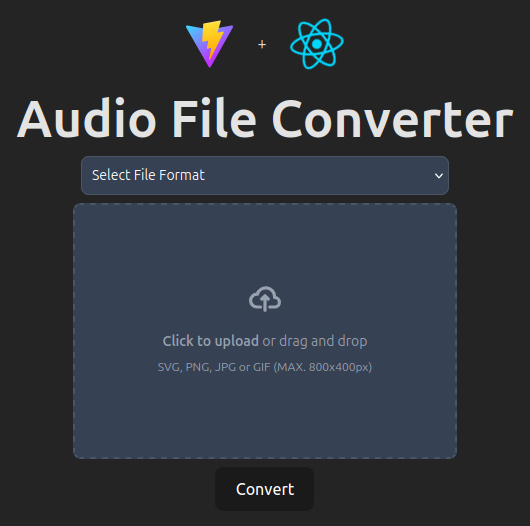
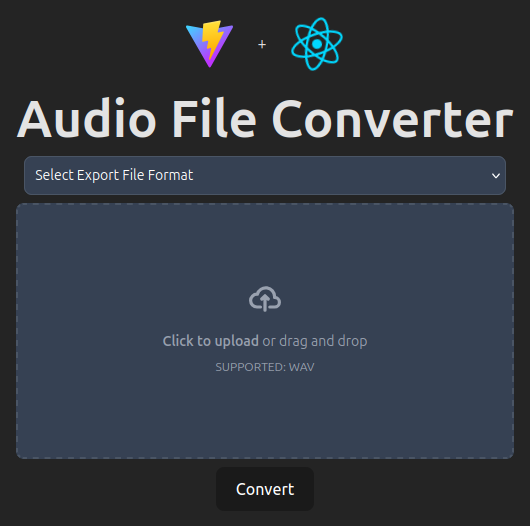
wui_frontend_reactjs: Implemented

diff --git a/src/wui/frontend/freactjs/src/App.tsx b/src/wui/frontend/freactjs/src/App.tsx
@@ -1,8 +1,77 @@
+import { useState } from 'react'
 import reactLogo from './assets/react.svg'
 import viteLogo from '/vite.svg'
 import './App.css'
 
 function App() {
+  // TODO (ames0k0): load from backend
+  const SUPPORTED_FILE_EXTENSIONS: string[] = [
+    "WAV",
+  ];
+  const SUPPORTED_EXPORT_FILE_FORMATS: string[] = [
+    "mp3",
+  ];
+
+  const [file, setFile] = useState<File | null>(null);
+  const [eff, setEFF] = useState<string | null>(null);
+  const [status, setStatus] = useState("initial");
+
+  const handleEFFChange = (e: React.ChangeEvent<HTMLSelectElement>) => {
+    if (SUPPORTED_EXPORT_FILE_FORMATS.includes(e.target.value)) {
+      setEFF(e.target.value);
+    }
+  };
+  const handleFileChange = (e: React.ChangeEvent<HTMLInputElement>) => {
+    if (e.target.files) {
+      setFile(e.target.files[0]);
+    }
+  };
+
+  const submitFile = async () => {
+    setStatus("initial");
+
+    if (!eff) {
+      setStatus("fail>`Export File Format` is not selected");
+      return;
+    }
+    if (!file) {
+      setStatus("fail>`File` is not selected");
+      return;
+    }
+    try {
+      const formData = new FormData();
+      formData.append("file", file);
+
+      const result = await fetch(
+        "http://0.0.0.0:8000/audio/convert?export_file_format=" + eff,
+        {
+          method: "POST",
+          body: formData,
+        }
+      );
+
+      if (result.status !== 200) {
+        setStatus("fail>" + (await result.json())["detail"])
+        return;
+      }
+      const content_disposition: string | null= result.headers.get("Content-Disposition");
+      if (!content_disposition) {
+        setStatus("fail>Missing header: Content-Disposition");
+        return;
+      }
+      const blob: Blob = await result.blob();
+      const objectUrl = URL.createObjectURL(blob);
+      const link: HTMLAnchorElement = document.createElement('a');
+
+      link.href = objectUrl;
+      // filename="{filename}.{export_file_format}"
+      link.download = content_disposition.split("=\"")[1].slice(0, -1);
+      link.click();
+      URL.revokeObjectURL(objectUrl);
+    } catch (error) {
+      setStatus("fail>" + "Network Error");
+    }
+  }
   return (
     <>
       <div className="flex items-center justify-center w-full">
@@ -15,16 +84,15 @@ function App() {
         </a>
       </div>
       <h1 className="text-2xl font-bold">Audio File Converter</h1>
-      <form className="max-w-sm mx-auto">
       <div className="flex items-center justify-center w-full">
-        <select id="countries" className="m-2 bg-gray-50 border border-gray-300 text-gray-900 text-sm rounded-lg focus:ring-blue-500 focus:border-blue-500 block w-full p-2.5 dark:bg-gray-700 dark:border-gray-600 dark:placeholder-gray-400 dark:text-white dark:focus:ring-blue-500 dark:focus:border-blue-500">
-          <option defaultValue={"US"}>Select File Format</option>
-          <option value="US">United States</option>
-          <option value="CA">Canada</option>
-          <option value="FR">France</option>
-          <option value="DE">Germany</option>
+        <select onChange={handleEFFChange} id="countries" className="m-2 bg-gray-50 border border-gray-300 text-gray-900 text-sm rounded-lg focus:ring-blue-500 focus:border-blue-500 block w-full p-2.5 dark:bg-gray-700 dark:border-gray-600 dark:placeholder-gray-400 dark:text-white dark:focus:ring-blue-500 dark:focus:border-blue-500">
+          <option defaultValue={"US"}>Select Export File Format</option>
+          {SUPPORTED_EXPORT_FILE_FORMATS.map((file_format) =>
+           <option key={file_format} value={file_format}>{file_format}</option>
+          )}
         </select>
       </div>
+      <Result status={status} />
       <div className="flex items-center justify-center w-full">
         <label htmlFor="dropzone-file" className="flex flex-col items-center justify-center w-full h-64 border-2 border-gray-300 border-dashed rounded-lg cursor-pointer bg-gray-50 dark:hover:bg-gray-800 dark:bg-gray-700 hover:bg-gray-100 dark:border-gray-600 dark:hover:border-gray-500 dark:hover:bg-gray-600">
             <div className="flex flex-col items-center justify-center pt-5 pb-6">
@@ -32,15 +100,24 @@ function App() {
                   <path stroke="currentColor" strokeLinecap="round" strokeLinejoin="round" strokeWidth="2" d="M13 13h3a3 3 0 0 0 0-6h-.025A5.56 5.56 0 0 0 16 6.5 5.5 5.5 0 0 0 5.207 5.021C5.137 5.017 5.071 5 5 5a4 4 0 0 0 0 8h2.167M10 15V6m0 0L8 8m2-2 2 2"/>
                 </svg>
                 <p className="mb-2 text-sm text-gray-500 dark:text-gray-400"><span className="font-semibold">Click to upload</span> or drag and drop</p>
-                <p className="text-xs text-gray-500 dark:text-gray-400">SVG, PNG, JPG or GIF (MAX. 800x400px)</p>
+                <p className="text-xs text-gray-500 dark:text-gray-400">Supported input files: {SUPPORTED_FILE_EXTENSIONS}</p>
             </div>
-            <input id="dropzone-file" type="file" className="hidden" />
+            <input id="dropzone-file" type="file" className="hidden" onChange={handleFileChange} />
         </label>
       </div>
-      <button type="submit" className="m-2 text-white bg-blue-700 hover:bg-blue-800 focus:ring-4 focus:outline-none focus:ring-blue-300 font-medium rounded-lg text-sm w-full sm:w-auto px-5 py-2.5 text-center dark:bg-blue-600 dark:hover:bg-blue-700 dark:focus:ring-blue-800">Convert</button>
-      </form>
+      <button onClick={submitFile} type="button" className="m-2 text-white bg-blue-700 hover:bg-blue-800 focus:ring-4 focus:outline-none focus:ring-blue-300 font-medium rounded-lg text-sm w-full sm:w-auto px-5 py-2.5 text-center dark:bg-blue-600 dark:hover:bg-blue-700 dark:focus:ring-blue-800">Convert</button>
     </>
   )
 }
+
+const Result = ({ status }: { status: string }) => {
+  const [flag, message] = status.split(">");
+  if (flag === 'fail') {
+    return <p className="mb-2">❌ {message}</p>;
+  } else {
+    return null;
+  }
+};
+
 
 export default App

diff --git a/src/wui/frontend/freactjs/README.md b/src/wui/frontend/freactjs/README.md
@@ -6,3 +6,5 @@ React + TypeScript + Vite + Tailwind CSS
 npm install
 npm run dev
 ```
+
+<p align="center"><img src="./_readme/reactjs.png" /></p>
